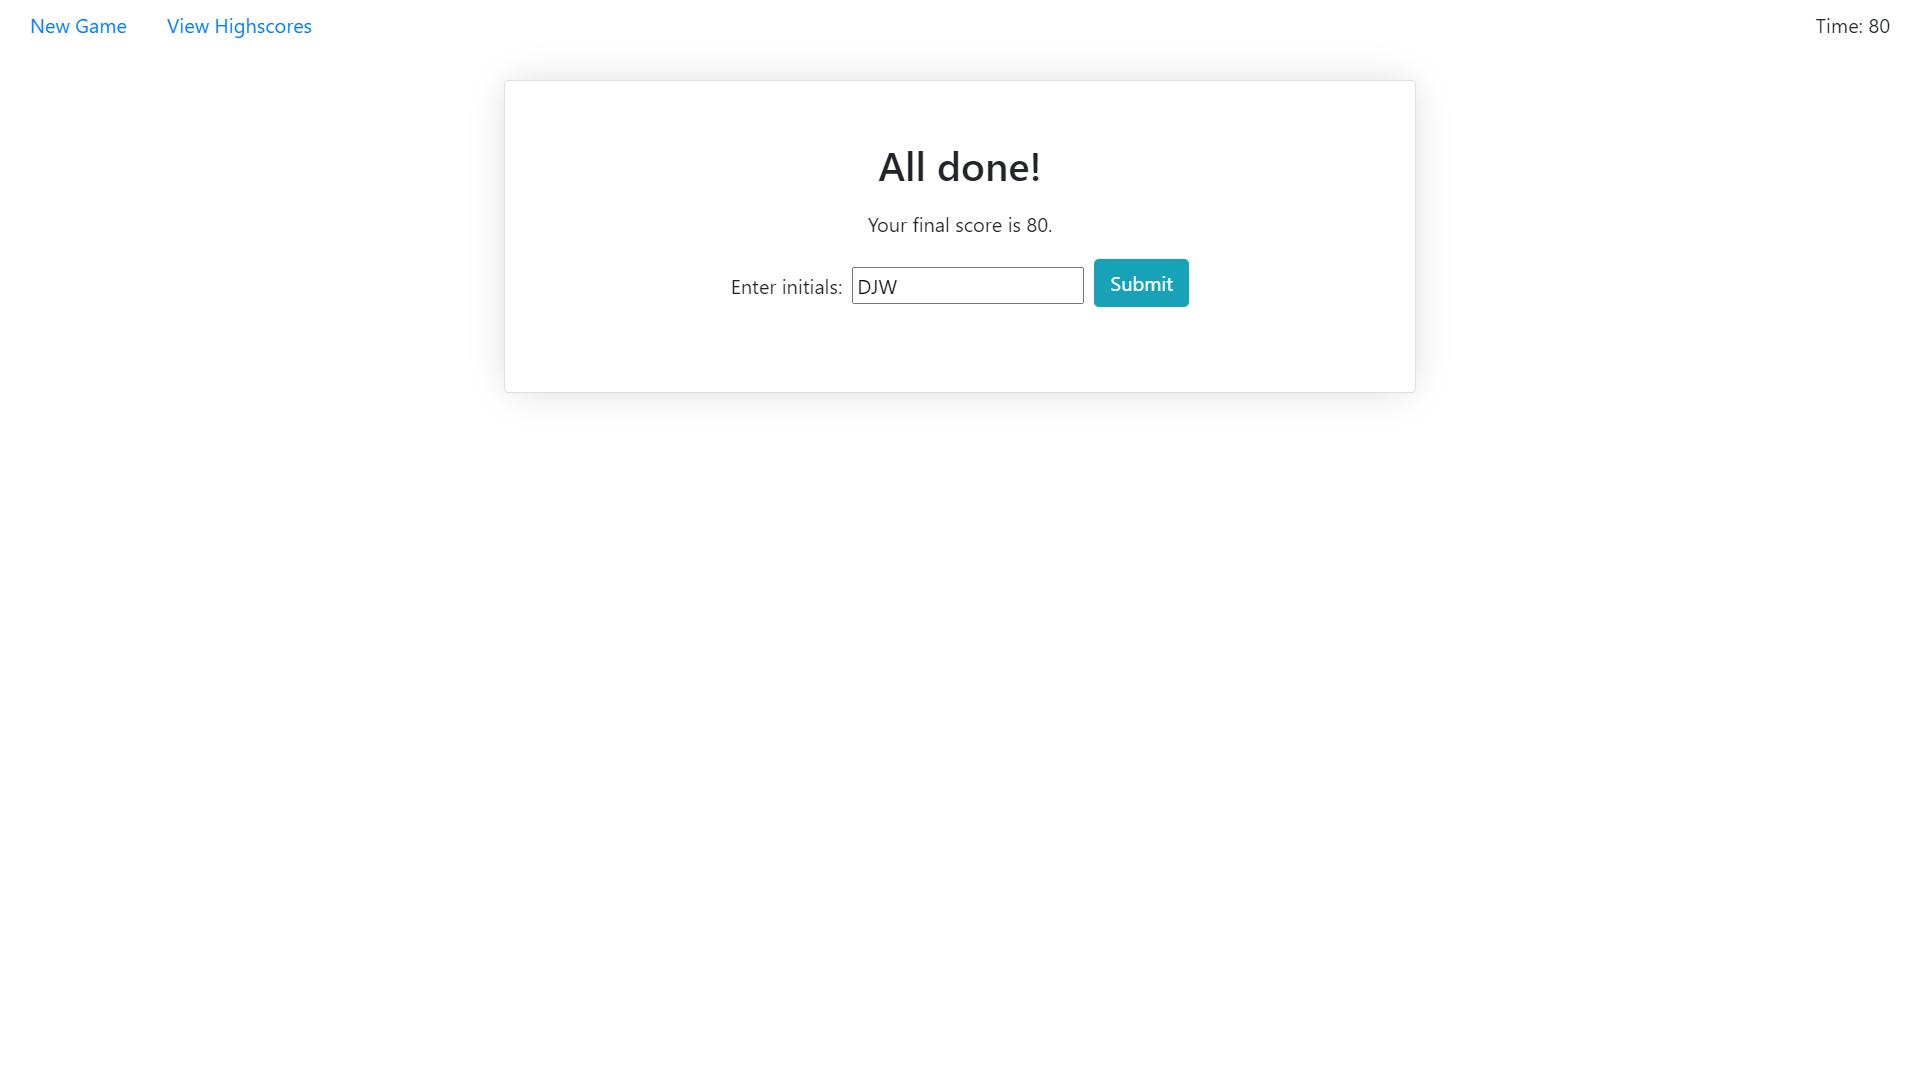
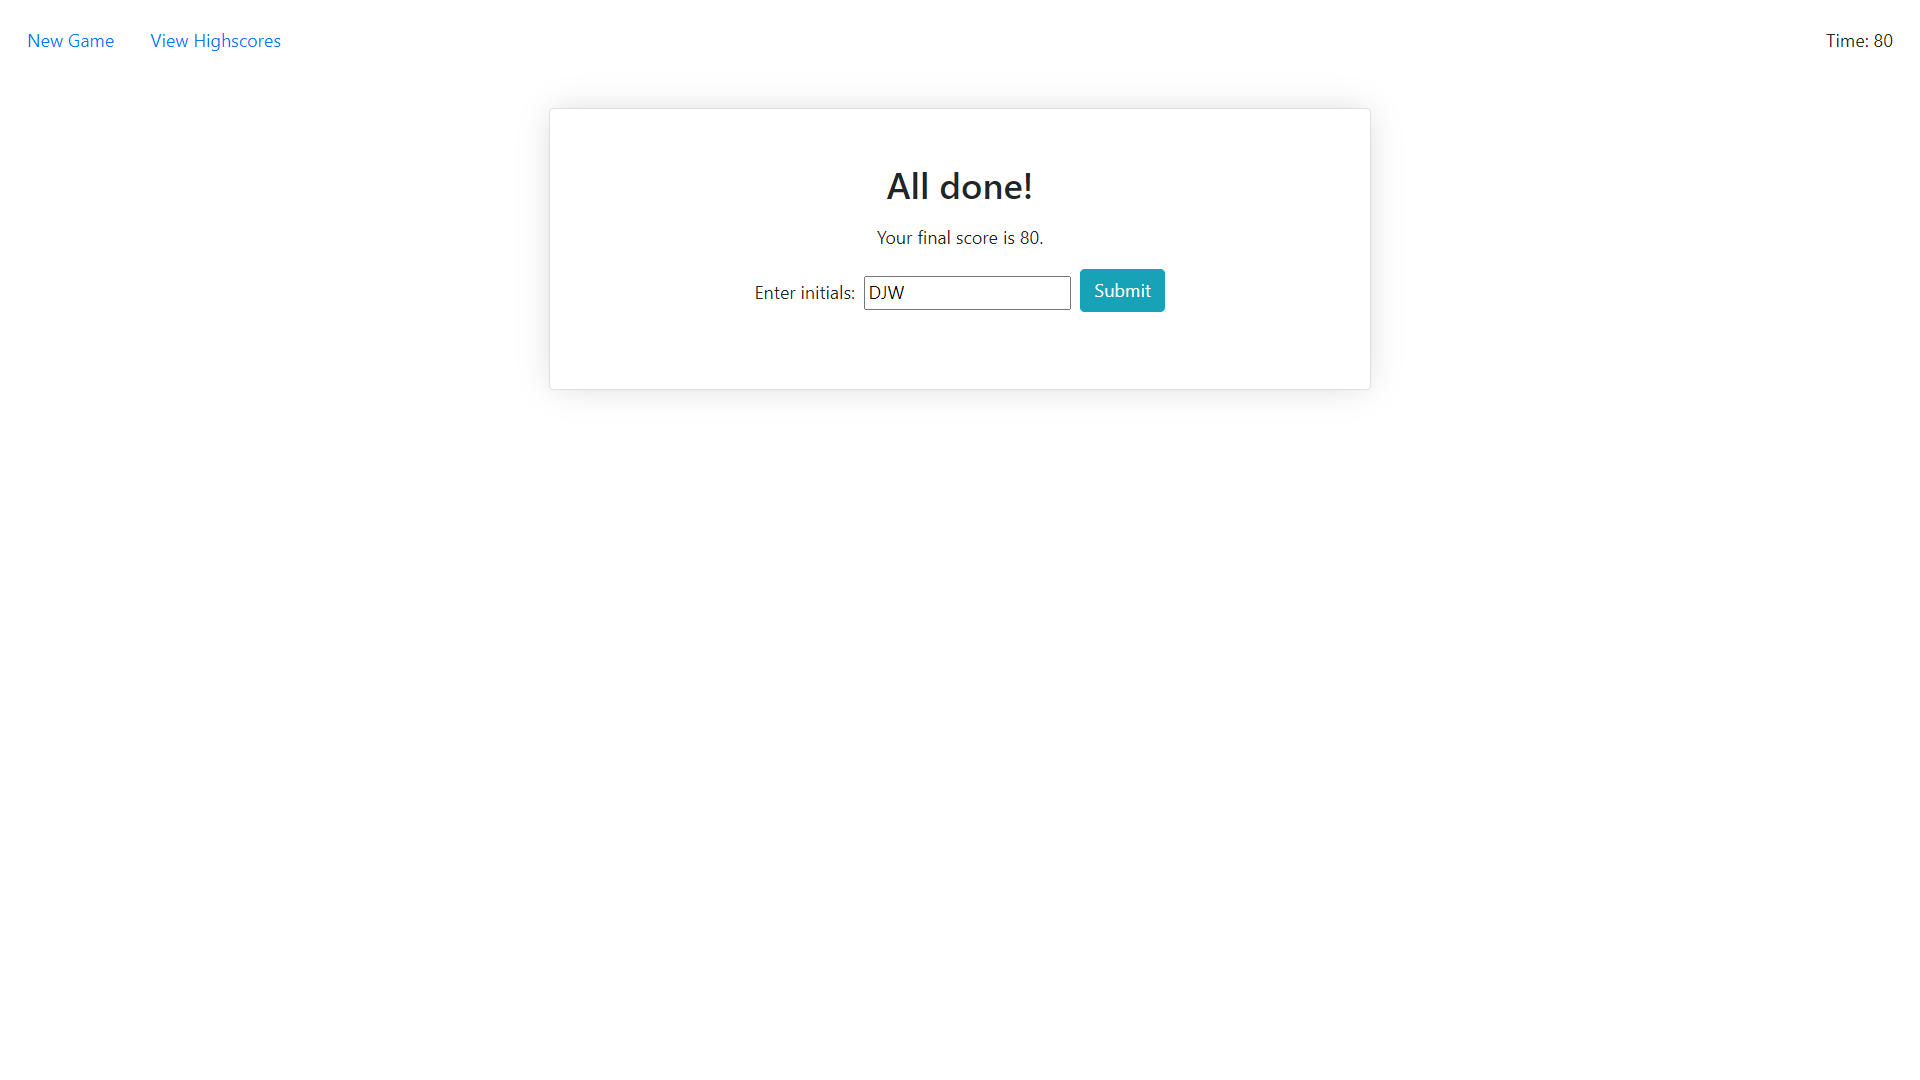
update screenshots, readme, nav padding

diff --git a/index.html b/index.html
@@ -13,7 +13,7 @@
     <link rel="stylesheet" href="style.css" />
   </head>
   <body>
-    <div class="d-flex justify-content-between mb-4 px-2">
+    <div class="d-flex justify-content-between mb-4 px-2 py-3">
       <ul class="nav">
         <li class="new-game nav-item">
           <a class="nav-link" href="#">New Game</a>

diff --git a/README.md b/README.md
@@ -2,7 +2,12 @@
 
 A simple quiz game about coding built using HTML, CSS (Bootstrap), vanilla JS and local storage.
 This was a much more complicated project than the previous ones for the course and included semi-persistent
-data via local storage. I feel my code could probably use better organization and perhaps also be refactored
+data via local storage.
+
+I wrote the application so everything rendered to a single page, and relied almost entirely on Bootstrap for CSS,
+which saved me a lot of time.
+
+I feel my code could probably use better organization and perhaps also be refactored
 to be a bit more concise, but compromises have to be made with a due date. Everything works how it should so that
 is a victory!
 
@@ -15,6 +20,7 @@ Additional features/improvents which could be cool include:
 - Random answer order for each question
 - Better card design for questions
 - Ability to select number of questions at start
+- Progress indicator (ie. "Question 1/15")
 
 ### Project is demo'd here:
 
@@ -23,6 +29,10 @@ https://derek-watson14.github.io/CodeQuiz/
 ### Screenshots:
 
 ![screenshot of site before button click](screenshots/start.png)
+Start page that the user first sees.
 ![screenshot of site before button click](screenshots/game.png)
+Sample of gameplay. The "Correct" refers to the previous question.
 ![screenshot of site before button click](screenshots/end.png)
+High score submission form.
 ![screenshot of site before button click](screenshots/highscores.png)
+Highscore table allowing users to play again or clear highscores.
